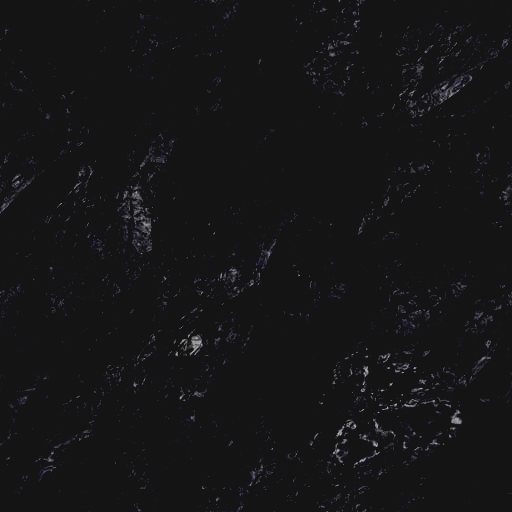
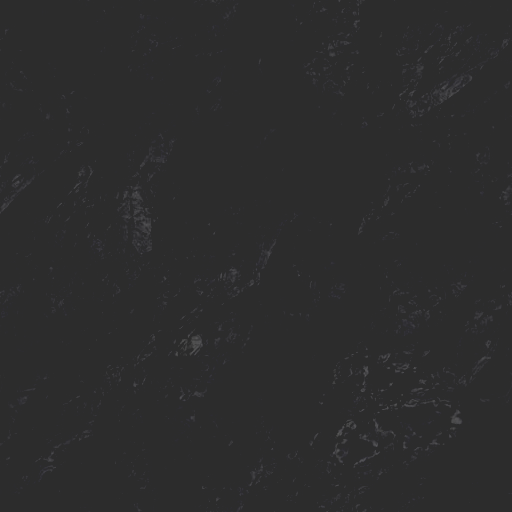
update

diff --git a/js/script.js b/js/script.js
@@ -65,10 +65,10 @@ function formCollapse() {
   var tl = new TimelineMax();
 
   tl.to([textFields, textArea, labels], 0.1, { autoAlpha: 0})
-    .to('#submit', 0.1, {width:'50px',color:'#00AF8A',innerHTML:'!', x:10, ease:Elastic.easeOut})
+    .to('#submit', 0.1, {width:'50px',color:'#00AF8A',innerHTML:'!', ease:Elastic.easeOut})
     .to('#submit', 0.5, {bottom:formPos})
-    .to('#form-section', 0.07, {backgroundColor:'#00AF8A',height:formHeight})
-    .to('#submit', 0.2, {width:'620px', ease:Strong.easeOut})
+    .to('#form-section', 0.07, {backgroundColor:'rgba(23,190,155,0.5)',height:formHeight})
+    .to('#submit', 0.2, {width:'100%', ease:Elastic.easeOut})
     .to('#submit', 0.2, {innerHTML:'We will be in touch!', color:'#ffffff'})
 
 }
@@ -77,6 +77,3 @@ function formCollapse() {
 TweenMax.to('.asterisk', 1, {rotation:360,transformOrigin:'50% 50%',repeat:-1,repeatDelay:3});
 
 // ANIMATIONS
-
-formCollapse();
-alert(formHeight);

diff --git a/_sass/components.sass b/_sass/components.sass
@@ -79,7 +79,7 @@
   box-shadow: 0 0 40px -10px black
   border-radius: $bRadius
   padding-top: 100px
-  padding-left: 80px
+  padding-left: $topPadding
   margin-top: 40px
   margin-bottom: 60px
   color: $paragraphGrey

diff --git a/_sass/_colors.sass b/_sass/_colors.sass
@@ -2,7 +2,7 @@
 
 $albionTeal: #00AF8A
 $grey: #818181
-$backgroundGrey: rgba(30,30,30,0.65)
+$backgroundGrey: rgba(30,30,30,0.5)
 $paragraphGrey: #DCDCDC
 
 

diff --git a/_sass/_layout.sass b/_sass/_layout.sass
@@ -4,4 +4,4 @@ $max-width: 800px
 
 body
   background-image: url('../img/rock.png')
-  background-size: 300px 300px
+  background-size: 400px 400px
